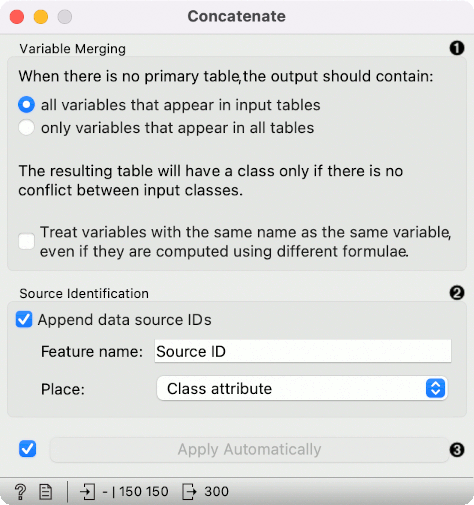
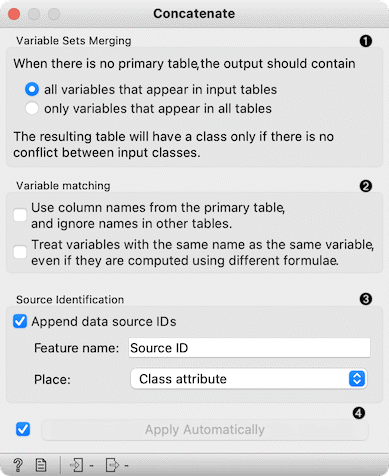
Concatenate: Add 'Ignore names' checkbox to documentation

diff --git a/source/widgets/data/concatenate.md b/source/widgets/data/concatenate.md
@@ -19,9 +19,14 @@ The widget concatenates multiple sets of instances (data sets). The merge is "ve
 1. Set the attribute merging method:
    - *all variables that appear in input tables* will output columns from all input tables, assinging missing values for columns that were absent in each table
    - *only variables that appear in all tables* will output an intersection of columns from all input tables
-   Check the *Treat variables with the same name as the same variable, even if they are computed using different formulae* option to consider columns with the same name as the same column in all input tables. Leaving it unchecked will not match by column name but by column identity.
-2. Add the identification of source data sets to the output data set. The option will output an additional column with *Feature name* and a given type, defined in the *Place* option. The default will place source ID as a class variable. The new column will contain the names of the input tables as values.
-3. If *Apply automatically* is ticked, changes are communicated automatically. Otherwise, click *Apply*.
+
+2. When merging multiple tables with the same data but different column names, check *Use column names from the primary table and ignore names in other tables*. The types of variables and names of categories (for categorical variables) must match.
+
+   Check *Treat variables with the same name as the same variable, even if they are computed using different formulae* to consider columns with the same name as the same column in all input tables. Leaving it unchecked will not match by column name but by column identity.
+
+3. Add the identification of source data sets to the output data set. The option will output an additional column with *Feature name* and a given type, defined in the *Place* option. The default will place source ID as a class variable. The new column will contain the names of the input tables as values.
+
+4. If *Apply automatically* is ticked, changes are communicated automatically. Otherwise, click *Apply*.
 
 If one of the tables is connected to the widget as the primary table, the resulting table will contain only the attributes from this table. If there is no primary table, the attributes can be either a union of all attributes that appear in the tables specified as *Additional Tables*, or their intersection, that is, a list of attributes common to all the connected tables.
 
